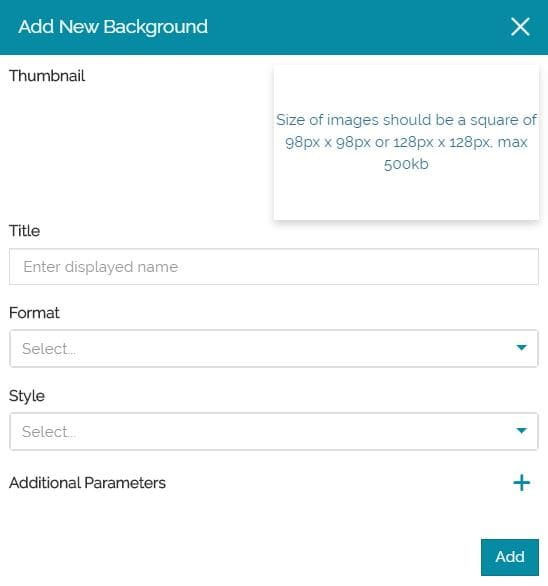
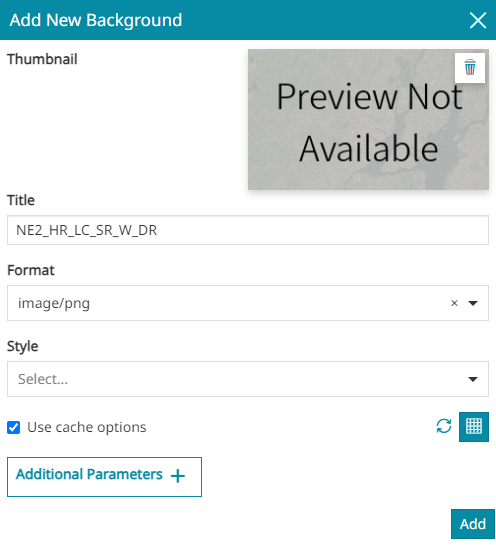
update-background

Changed region(s): [[0.0, 0.0, 1.0, 0.4367], [0.0, 0.3431, 0.998, 0.9046], [0.877, 0.9046, 0.998, 0.9982]]

diff --git a/docs/user-guide/background.md b/docs/user-guide/background.md
@@ -43,6 +43,9 @@ In particular, from this window, the user can perform the following operations:
 
 * Choose the **Style**, between the ones available for that layer
 
+* Enable/disable the use of the layer cached tiles. If checked, the*Tiled=true*URL parameter will be added to the WMS request and to [use tiles cached with GeoWebCache](https://docs.geoserver.org/latest/en/user/geowebcache/using.html#direct-integration-with-geoserver-wms).
+When the*Use cache options* is enabled, the **Available tile grids information** <img src="../img/button/update_button.jpg" class="ms-docbutton"/> and the **Remote custom tile grids** <img src="../img/button/tile_grid.jpg" class="ms-docbutton"/> buttons are also available to inform the user about the status of the grid set used in the map compared to those available remotely (more details on [Layer Settings](layer-settings.md#display) section).
+
 * Add **Additional Parameters** of three different types: *String*, *Number* or *Boolean* (these parameters will be added to the WMS request).
 
 !!! warning
